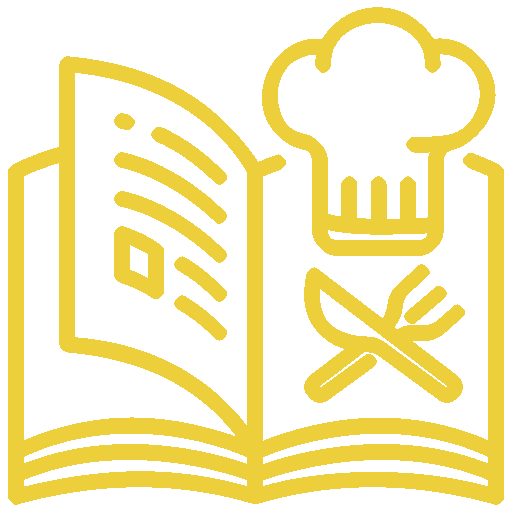
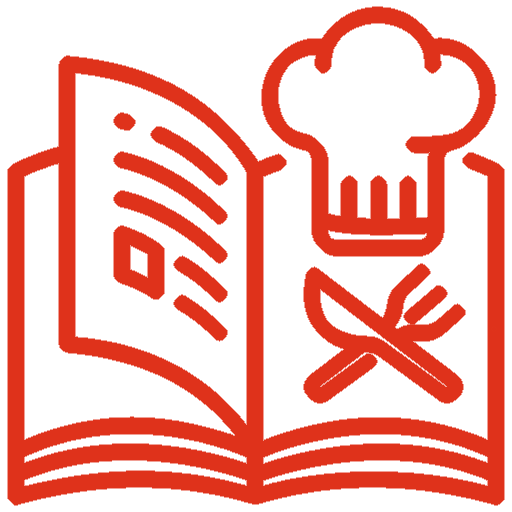
Changed up the color scheme and made small changed to border colors here and there

diff --git a/src/pages/NewRecipe.svelte b/src/pages/NewRecipe.svelte
@@ -116,7 +116,7 @@
 
         label.textContent = `${type === "ingredient" ?  `${ingredientCount}.` : `${stepCount}.`}`;
 
-        label.style.color = "white";
+        label.style.color = "black";
         label.style.fontSize = "16px";
         label.id = `${type}-label-${type === "ingredient" ?  ingredientCount : stepCount}`;
 
@@ -125,11 +125,11 @@
         // region: Input attributes
 
         input.style.border = 'none';
-        input.style.borderBottom = "1px solid white";
+        input.style.borderBottom = "1px solid black";
         input.style.backgroundColor = "transparent";
         input.style.width = "100%";
         input.style.outline = "none";
-        input.style.color = "white";
+        input.style.color = "black";
         input.style.padding = "0";
         input.style.boxShadow = "none";
         input.style.fontSize = "16px";
@@ -235,7 +235,8 @@
         max-width: 600px;
         margin: 0 auto;
         text-align: left;
-        background: transparent;
+        background-color: var(--background);
+        border: 1px solid #bdbdbd;
         padding: 2em 3em 3em 3em;
         min-height: 400px;
         position: relative;
@@ -254,13 +255,14 @@
     textarea {
         min-height: 70px;
         border: none;
+        color: black;
     }
 
     input {
         background-color: transparent;
         border: none;
         border-bottom: 1px solid var(--accent);
-        color: white;
+        color: black;
         font-size: 16px;
         font-weight: 100;
         width: 100%;
@@ -271,12 +273,12 @@
     }
 
     #step-container label, #ingredient-container label {
-        color: var(--text);
+        color: black;
         font-weight: 300;
     }
 
     label {
-        color: white;
+        color: black;
         font-weight: 300;
         font-size: 23px;
         margin-bottom: 5px;
@@ -285,13 +287,13 @@
 
     input::-webkit-input-placeholder {
         font-weight: 100;
-        color:white;
+        color:black;
         opacity: .7;
     }
 
     input::-ms-input-placeholder {
         font-weight: 100;
-        color:white;
+        color:black;
     }
 
     input:focus, input:focus-visible, input:focus, textarea:focus-visible {
@@ -314,13 +316,15 @@
         /* max-height: 30px; */
         position: relative;
         font-size: 20px;
+        color: white;
         background-color: var(--primary-button);
     }
 
-    /* .submit:hover {
-        color: white;
-        background-color: rgb(255, 46, 46);
-    } */
+    .submit:hover {
+        color: var(--primary-button);
+        background-color: white;
+        transition: all 200ms;
+    }
 
     @media (max-width: 900px) {
         .new-recipe-outer {

diff --git a/src/lib/Navbar.svelte b/src/lib/Navbar.svelte
@@ -130,7 +130,7 @@
         white-space: nowrap;
         margin: 0 auto;
         position: absolute;
-        border-right: 1px solid #676767;
+        border-right: 1px solid #bdbdbd;
         padding: 0 10px;
         padding-right: 40px;
         gap: 10px;
@@ -158,8 +158,8 @@
         position: relative;
     }
     .navbar-outer {
-        background-color: var(--background);
-        border-bottom: 1px solid #676767;
+        background-color: white;
+        border-bottom: 1px solid #bdbdbd;
         position: relative;
         height: 60px;
         display: flex;
@@ -189,7 +189,7 @@
 
     nav a {
         font-size: 15px;
-        color: var(--text);
+        color: black;
         font-weight: 600;
         margin: 0;
         /* position: relative;
@@ -229,6 +229,7 @@
         line-height: 60px;
         vertical-align: middle;
         transition: all 100ms ease;
+        color: black;
     }
 
     p:hover {

diff --git a/src/lib/RecipeWidget.svelte b/src/lib/RecipeWidget.svelte
@@ -64,7 +64,7 @@
         backdrop-filter: blur(40px);
         z-index: 5;
         box-shadow: rgba(0, 0, 0, 0.35) 0px 5px 15px;
-        border-radius: 10px;
+        border-radius: 5px;
         padding: 5px 5px;
         color: black;
         width: 60px;
@@ -84,13 +84,14 @@
     }
 
     .recipe-widget-outer {
-        background-color: var(--primary-button);
+        background-color: white;
         border-radius: 5px;
         height: 278px;
         width: 235px;
         transition: all 400ms ease;
         position: relative;
-        cursor: pointer;        
+        cursor: pointer;     
+        border: 1px solid #bdbdbd;   
     }
 
     a {

diff --git a/src/lib/RecipeSlideshow.svelte b/src/lib/RecipeSlideshow.svelte
@@ -73,7 +73,7 @@
         width: calc(var(--content-width) + 10%);
         margin: 0 auto;
         position: relative;
-        border-top: 5px solid var(--accent);
+        border-top: 5px solid black;
         margin-bottom: 150px;
         padding-bottom: 1em;
 
@@ -90,9 +90,11 @@
     }
 
     h2 {
-        font-weight: 600;
+        font-weight: 300;
+        text-decoration: underline;
+        text-decoration-thickness: 1px;
         font-size: 45px;
-        color: var(--text)
+        color: black;
     }
 
     .btn {

diff --git a/src/app.css b/src/app.css
@@ -18,10 +18,10 @@
   --accent-color-main: #189AB4;
 
   --text: white;
-  --background: rgb(41, 41, 41);
-  --primary-button: #edcf3b;
+  --background: rgb(231, 231, 231);
+  --primary-button: #df321b;
   --secondary-button: #f7f9fd;
-  --accent: #b19710;
+  --accent: #df321b;
 
   --scroll-type: 'hidden';
 
